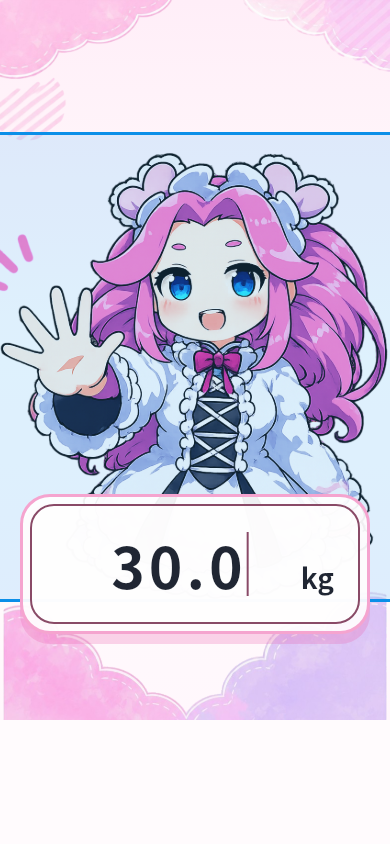
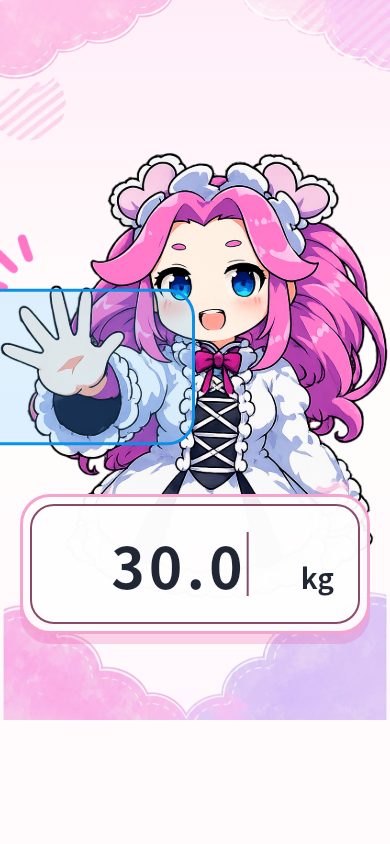
Reduce high touch tap area

Changed region(s): [[0.0, 0.154, 1.0, 0.7393]]

diff --git a/lib/screens/home_screen.dart b/lib/screens/home_screen.dart
@@ -233,45 +233,54 @@ class _WeightInputHero extends StatelessWidget {
                       children: [
                         Positioned(
                           bottom: 92,
-                          child: Semantics(
-                            button: isHighTouchEnabled,
-                            label: isHighTouchEnabled ? 'ハイタッチ' : null,
-                            child: GestureDetector(
-                              behavior: HitTestBehavior.opaque,
-                              onTap: isHighTouchEnabled ? onHighTouch : null,
-                              child: AnimatedSwitcher(
-                                duration: const Duration(milliseconds: 280),
-                                child: Stack(
-                                  key: ValueKey(characterAsset),
-                                  alignment: Alignment.center,
-                                  children: [
-                                    Image.asset(
-                                      characterAsset,
-                                      height: 470,
-                                      fit: BoxFit.contain,
-                                      semanticLabel: '体重入力キャラクター',
-                                    ),
-                                    if (isHighTouchEnabled)
-                                      Positioned.fill(
-                                        child: IgnorePointer(
-                                          child: DecoratedBox(
-                                            decoration: BoxDecoration(
-                                              color: const Color(
-                                                0xFF48B7FF,
-                                              ).withValues(alpha: 0.18),
-                                              border: Border.all(
-                                                color: const Color(0xFF0B8FE8),
-                                                width: 3,
+                          child: AnimatedSwitcher(
+                            duration: const Duration(milliseconds: 280),
+                            child: Stack(
+                              key: ValueKey(characterAsset),
+                              alignment: Alignment.center,
+                              children: [
+                                Image.asset(
+                                  characterAsset,
+                                  height: 470,
+                                  fit: BoxFit.contain,
+                                  semanticLabel: '体重入力キャラクター',
+                                ),
+                                if (isHighTouchEnabled)
+                                  Positioned.fill(
+                                    child: Align(
+                                      alignment: Alignment.centerLeft,
+                                      child: FractionallySizedBox(
+                                        widthFactor: 0.5,
+                                        heightFactor: 1 / 3,
+                                        child: Semantics(
+                                          button: true,
+                                          label: 'ハイタッチ',
+                                          child: GestureDetector(
+                                            behavior: HitTestBehavior.opaque,
+                                            onTap: onHighTouch,
+                                            child: IgnorePointer(
+                                              child: DecoratedBox(
+                                                decoration: BoxDecoration(
+                                                  color: const Color(
+                                                    0xFF48B7FF,
+                                                  ).withValues(alpha: 0.18),
+                                                  border: Border.all(
+                                                    color: const Color(
+                                                      0xFF0B8FE8,
+                                                    ),
+                                                    width: 3,
+                                                  ),
+                                                  borderRadius:
+                                                      BorderRadius.circular(28),
+                                                ),
                                               ),
-                                              borderRadius:
-                                                  BorderRadius.circular(28),
                                             ),
                                           ),
                                         ),
                                       ),
-                                  ],
-                                ),
-                              ),
+                                    ),
+                                  ),
+                              ],
                             ),
                           ),
                         ),

diff --git a/docs/specs/weight_report_app_spec.md b/docs/specs/weight_report_app_spec.md
@@ -31,8 +31,8 @@ Weight Report App は、Android 向けに体重を日次で記録し、履歴・
 - 体重入力は数値のみ、小数点第 1 位まで、最大 `999.9 kg` とする。
 - 体重表示カードは白〜淡色の背景、ピンクの枠線、角丸、軽い影を付け、入力可能な領域であることが分かる見た目にする。
 - `30.0 kg` 以上の体重入力が完了したら、キャラクター画像をハイタッチ要求状態（`character_high_touch.png`）に変更する。
-- ハイタッチ要求状態では、キャラクター画像をタップできる。
-- ハイタッチ中のキャラクター画像をタップしたら、入力された体重と入力した日付をアプリ内 DB に保存する。
+- ハイタッチ要求状態では、キャラクター画像を横 2・縦 3 に分割したうち、横 1・縦 2 のエリアをタップできる。
+- ハイタッチ中の横 1・縦 2 エリアをタップしたら、入力された体重と入力した日付をアプリ内 DB に保存する。
 - 体重の保存が成功したら、キャラクター画像を記録完了のお祝い状態（`character_celebration.png`）に変更する。
 - ホーム画面には、保存済みの体重履歴、直近 7 日平均、目標体重までの進捗などのレポート情報を表示しない。
 
@@ -58,7 +58,7 @@ Weight Report App は、Android 向けに体重を日次で記録し、履歴・
 - 体重入力は数値のみ、小数点第 1 位まで、最大 `999.9 kg` に制限される。
 - 入力体重が `30.0 kg` 未満の場合、ハイタッチ要求状態にはならない。
 - 入力体重が `30.0 kg` 以上の場合、ハイタッチ要求状態になる。
-- ハイタッチ中のキャラクター画像をタップすると、入力された体重と入力した日付がローカルに保存される。
+- ハイタッチ中の横 1・縦 2 エリアをタップすると、入力された体重と入力した日付がローカルに保存される。
 - 体重の保存が成功したら、ホーム画面のキャラクター画像が記録完了のお祝い状態に変わる。
 - 保存した体重はアプリ再起動後も確認できる。
 - レポート画面では、体重履歴が記録日と体重が分かる形で表示される。
